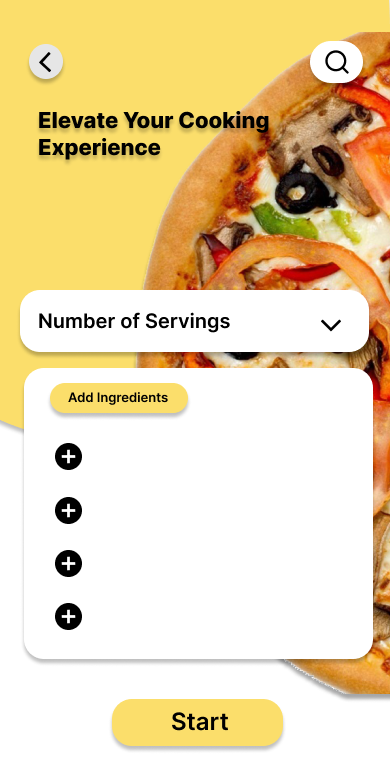
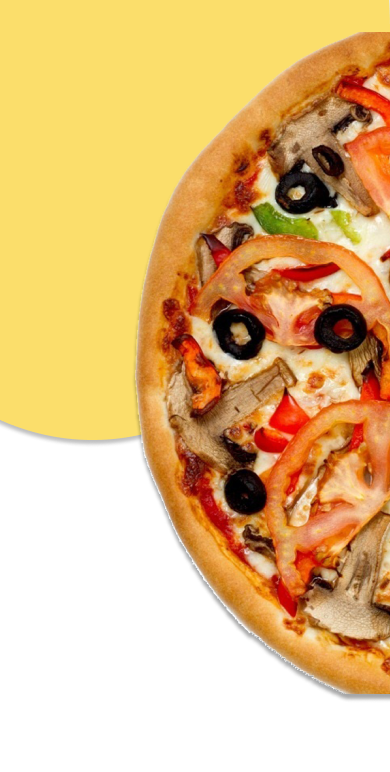
drop down

diff --git a/lib/pages/servings_page.dart b/lib/pages/servings_page.dart
@@ -9,194 +9,160 @@ class ServingsScreen extends StatefulWidget {
 }
 
 class _ServingsScreen extends State<ServingsScreen> {
-  final notifications = [
-    LocalNotification(
-      title: 'New Recipe Alerts',
-      time: '1m',
-      content:
-          '🎉 New recipes just added! Check out our latest creations including Spicy Thai Noodle Salad and Lemon Garlic Butter Salmon',
-      isRead: false,
-    ),
-    LocalNotification(
-      title: 'Recipe Recommendations',
-      time: '15m',
-      content:
-          '🌟 Recommended for you: One-Pot Creamy Tuscan Chicken Pasta. Perfect for a cozy night in! Click to view the recipe',
-      isRead: false,
-    ),
-    LocalNotification(
-      title: 'Weekly Meal Plans',
-      time: '1h',
-      content:
-          '🍽 This week\'s meal plan is here! From hearty breakfast burritos to flavorful chicken stir-fry, we\'ve got your meals covered. Tap to see the plan.',
-      isRead: true,
-    ),
-    LocalNotification(
-      title: 'Cooking Tips and Tricks',
-      time: '6h',
-      content:
-          '👩🍳 Tip of the day: Try using cold butter when making pie crusts for a flakier texture. Learn more about pie-making techniques in our latest blog post!',
-      isRead: true,
-    ),
-  ];
-
+  String dropDownValue = 'Number of Servings';
   @override
   Widget build(BuildContext context) {
     var size = MediaQuery.of(context).size;
     return Scaffold(
-      // appBar: AppBar(
-      //   title: Text(
-      //     'Notification',
-      //     style: Theme.of(context).textTheme.titleLarge!.copyWith(
-      //           fontWeight: FontWeight.bold,
-      //           fontSize: 25,
-      //         ),
-      //   ),
-      //   centerTitle: true,
-      // ),
+      extendBodyBehindAppBar: true,
+      appBar: AppBar(
+        backgroundColor: Colors.transparent,
+        elevation: 0,
+        title: const Text(
+          '',
+          ),
+        centerTitle: true,
+      ),
       body: Stack(
-        children: [
-          SizedBox(
-            width: double.infinity,
-            height: double.infinity,
-            child: Image.asset(
-              'assets/images/servings.png',
+        children: <Widget>[
+        Container(
+          decoration: const BoxDecoration(
+            image: DecorationImage(
+              image: AssetImage('assets/images/servings.png'),
               fit: BoxFit.fill,
             ),
           ),
-          // Container(
-          //   margin: const EdgeInsets.symmetric(horizontal: 10),
-          //   width: double.infinity,
-          //   child: Column(
-          //     crossAxisAlignment: CrossAxisAlignment.end,
-          //     children: [
-          //       const SizedBox(
-          //         height: 20,
-          //       ),
-          //       TextButton(
-          //         onPressed: () {},
-          //         child: Text(
-          //           'Mark as Read',
-          //           style: Theme.of(context).textTheme.bodyLarge!.copyWith(
-          //                 fontWeight: FontWeight.bold,
-          //                 fontSize: 16,
-          //                 color: const Color.fromARGB(255, 255, 0, 0),
-          //               ),
-          //         ),
-          //       ),
-          //       const SizedBox(
-          //         height: 10,
-          //       ),
-          //       SizedBox(
-          //         height: size.height * 0.7,
-          //         child: SingleChildScrollView(
-          //           child: Column(
-          //             children: notifications
-          //                 .map(
-          //                   (e) => Container(
-          //                     margin: const EdgeInsets.only(bottom: 25),
-          //                     padding: const EdgeInsets.all(12),
-          //                     width: double.infinity,
-          //                     height: size.height * 0.14,
-          //                     decoration: BoxDecoration(
-          //                       borderRadius: BorderRadius.circular(15),
-          //                       color: Colors.white,
-          //                       boxShadow: const [
-          //                         BoxShadow(
-          //                           blurRadius: 4,
-          //                         )
-          //                       ],
-          //                     ),
-          //                     child: Column(
-          //                       children: [
-          //                         Row(
-          //                           mainAxisAlignment:
-          //                               MainAxisAlignment.spaceBetween,
-          //                           children: [
-          //                             Text(
-          //                               e.title,
-          //                               style: Theme.of(context)
-          //                                   .textTheme
-          //                                   .bodyMedium!
-          //                                   .copyWith(
-          //                                     fontWeight: FontWeight.bold,
-          //                                     fontSize: 16,
-          //                                   ),
-          //                             ),
-          //                             Text(
-          //                               e.time,
-          //                               style: Theme.of(context)
-          //                                   .textTheme
-          //                                   .bodyMedium!
-          //                                   .copyWith(
-          //                                     fontWeight: FontWeight.bold,
-          //                                     fontSize: 15,
-          //                                     color: const Color.fromARGB(
-          //                                         255, 166, 166, 166),
-          //                                   ),
-          //                             ),
-          //                           ],
-          //                         ),
-          //                         Row(
-          //                           children: [
-          //                             SizedBox(
-          //                               width: size.width * 0.78,
-          //                               child: Text(
-          //                                 e.content,
-          //                                 style: Theme.of(context)
-          //                                     .textTheme
-          //                                     .bodyMedium!
-          //                                     .copyWith(
-          //                                       fontWeight: FontWeight.w400,
-          //                                       fontSize: 12,
-          //                                     ),
-          //                               ),
-          //                             ),
-          //                             const SizedBox(
-          //                               width: 16,
-          //                             ),
-          //                             if (!e.isRead)
-          //                               Container(
-          //                                 width: 10,
-          //                                 height: 10,
-          //                                 decoration: const BoxDecoration(
-          //                                     shape: BoxShape.circle,
-          //                                     color: Color.fromARGB(
-          //                                         255, 0, 86, 254)),
-          //                               )
-          //                           ],
-          //                         )
-          //                       ],
-          //                     ),
-          //                   ),
-          //                 )
-          //                 .toList(),
-          //           ),
-          //         ),
-          //       ),
-          //       Row(
-          //         mainAxisAlignment: MainAxisAlignment.center,
-          //         children: [
-          //           InkWell(
-          //             child: Container(
-          //               height: 50,
-          //               width: 50,
-          //               decoration: const BoxDecoration(
-          //                 shape: BoxShape.circle,
-          //                 color: Colors.white,
-          //               ),
-          //               child: const Icon(
-          //                 Icons.delete_outlined,
-          //                 size: 40,
-          //               ),
-          //             ),
-          //           ),
-          //         ],
-          //       )
-          //     ],
-          //   ),
-          // ),
-        ],
+          child: Padding(
+            padding: const EdgeInsets.fromLTRB(0, 100, 0, 0),
+            child: Column(
+              children: [
+                Padding(
+                  padding: const EdgeInsets.only(left: 10),
+                  child: Text(
+                    'Elevate Your Cooking \nExperience',
+                    style: Theme.of(context).textTheme.bodyLarge!.copyWith(
+                          fontSize: 25,
+                          fontWeight: FontWeight.w800,
+                        ),
+                  ),
+                ),
+                Container(
+                  margin: const EdgeInsets.only(top: 7),
+                  width: size.width,
+                  height: size.height * 0.061,
+                  alignment: Alignment.center,
+                  decoration: BoxDecoration(
+                    borderRadius: BorderRadius.circular(20),
+                    color: const Color.fromARGB(255, 246, 246, 246),
+                  ),
+                  child: Padding(
+                    padding: const EdgeInsets.fromLTRB(30, 0, 30, 0),
+                    child: DropdownButton<String>(
+                      value: dropDownValue,
+                      icon: const Icon(Icons.keyboard_arrow_down),
+                      style: const TextStyle(
+                          color: Color.fromARGB(255, 124, 124, 124)),
+                      underline: Container(height: 0),
+                      onChanged: (String? newValue) {
+                        setState(() {
+                          dropDownValue = newValue!;
+                        });
+                      },
+                      items: const [
+                        DropdownMenuItem(
+                          value: 'Number of Servings',
+                          child: Text('Number of Servings'),
+                        ),
+                        DropdownMenuItem(
+                          value: '01',
+                          child: Text('01'),
+                        ),
+                        DropdownMenuItem(
+                          value: '02',
+                          child: Text('02'),
+                        ),
+                        DropdownMenuItem(
+                          value: '03',
+                          child: Text('03'),
+                        ),
+                        DropdownMenuItem(
+                          value: '04',
+                          child: Text('04'),
+                        ),
+                      ],
+                    ),
+                  )
+                ),
+              ],
+          )
+
+          ),
+        ),
+      ],
+        // children: [
+        //   SizedBox(
+        //     width: double.infinity,
+        //     height: double.infinity,
+        //     child: Image.asset(
+        //       'assets/images/servings.png',
+        //       fit: BoxFit.fill,
+        //     ),
+        //   ),
+        //   Padding(
+        //     padding: const EdgeInsets.only(left: 15),
+        //     child: Text(
+        //       'Elevate Your Cooking \nExperience',
+        //       style: Theme.of(context).textTheme.bodyLarge!.copyWith(
+        //             fontSize: 25,
+        //             fontWeight: FontWeight.w300,
+        //           ),
+        //     ),
+        //   ),
+        //   Container(
+        //     margin: const EdgeInsets.only(top: 7),
+        //     width: size.width * 0.784,
+        //     height: size.height * 0.061,
+        //     alignment: Alignment.center,
+        //     decoration: BoxDecoration(
+        //       borderRadius: BorderRadius.circular(20),
+        //       color: const Color.fromARGB(255, 246, 246, 246),
+        //     ),
+        //     child: DropdownButton<String>(
+        //       value: dropDownValue,
+        //       icon: const Icon(Icons.keyboard_arrow_down),
+        //       style: const TextStyle(
+        //           color: Color.fromARGB(255, 124, 124, 124)),
+        //       underline: Container(height: 0),
+        //       onChanged: (String? newValue) {
+        //         setState(() {
+        //           dropDownValue = newValue!;
+        //         });
+        //       },
+        //       items: const [
+        //         DropdownMenuItem(
+        //           value: 'Number of Servings',
+        //           child: Text('Number of Servings'),
+        //         ),
+        //         DropdownMenuItem(
+        //           value: 'Mobile',
+        //           child: Text('Mobile'),
+        //         ),
+        //         DropdownMenuItem(
+        //           value: 'Laptop',
+        //           child: Text('Laptop'),
+        //         ),
+        //         DropdownMenuItem(
+        //           value: 'TV',
+        //           child: Text('TV'),
+        //         ),
+        //         DropdownMenuItem(
+        //           value: 'Embedded items',
+        //           child: Text('Embedded items'),
+        //         ),
+        //       ],
+        //     ),
+        //   ),
+        // ]
       ),
     );
   }

diff --git a/lib/pages/home_screen.dart b/lib/pages/home_screen.dart
@@ -44,13 +44,6 @@ class _HomeScreenState extends State<HomeScreen>
       Tech(name: 'Brunch', icon: Image.asset('assets/images/brunch.png')),
       Tech(name: 'Dinner', icon: Image.asset('assets/images/dinner.png')),
     ];
-
-    // var detailItems = [
-    //   Tech(name: 'Chicken Curry 01', icon: Image.asset('assets/images/chicken_curry1.png')),
-    //   Tech(name: 'Chicken Curry 02', icon: Image.asset('assets/images/chicken_curry1.png')),
-    //   Tech(name: 'Chicken Curry 03', icon: Image.asset('assets/images/chicken_curry1.png')),
-    //   Tech(name: 'Chicken Curry 04', icon: Image.asset('assets/images/chicken_curry1.png')),
-    // ];
     var detailItems = [
       'assets/images/chicken_curry1.png',
       'assets/images/chicken_curry1.png',
